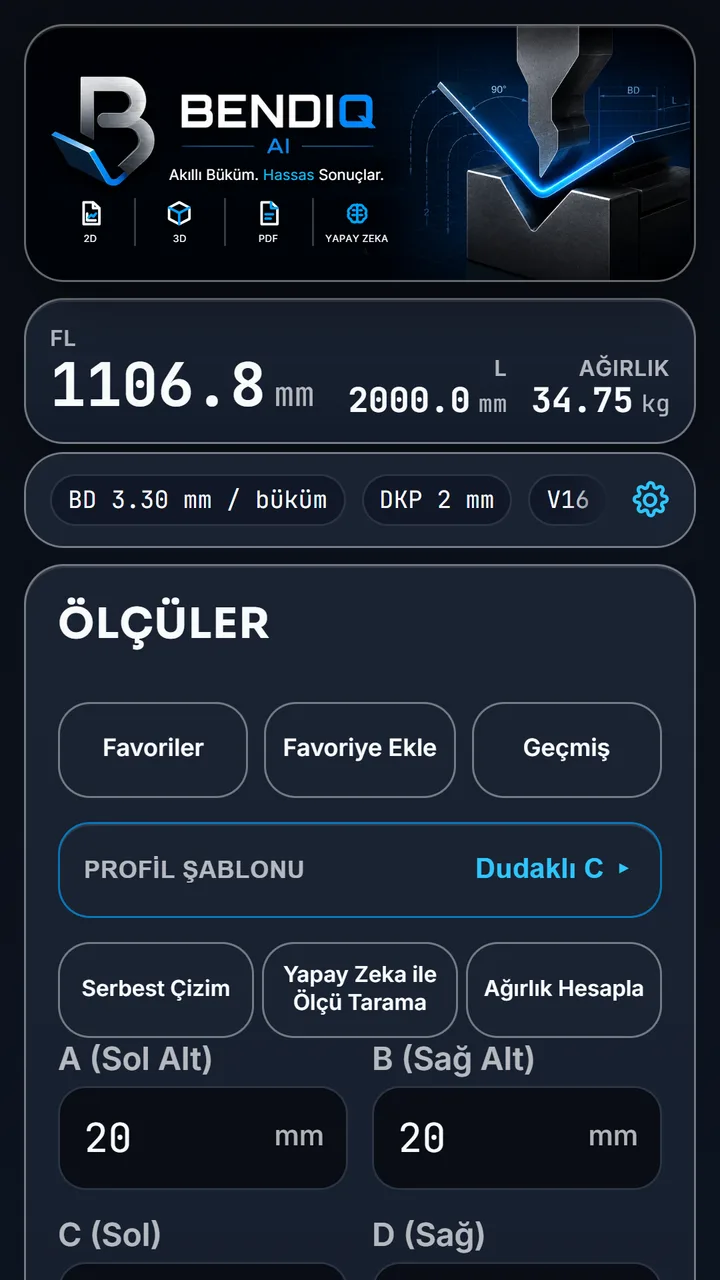
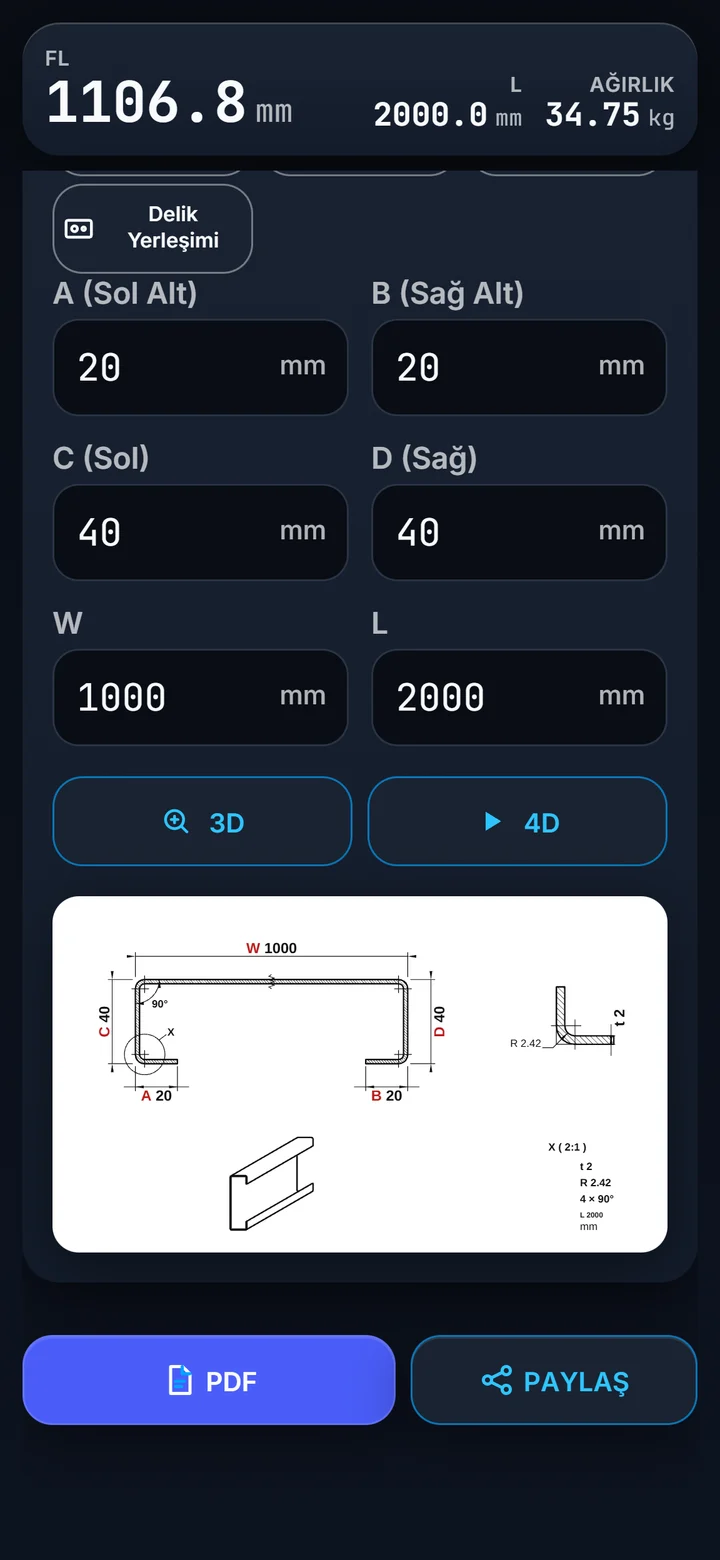
BENDIQ görselleri gerçek çıktıyla yenilendi
Hero'daki ekran ve proje kartındaki kapak, uygulamanın gerçek çıktısıyla
değişti: A4 yatay teknik çizim (kesit, ölçüler, detay X, izometrik).
Görsel oranları cihazın kendi oranına çekildi (720x1560 ve 1020x600) —
9:16'ya sıkıştırmak kareyi kırpıyordu. og-image küçültüldü.

diff --git a/src/styles/sections.css b/src/styles/sections.css
@@ -572,7 +572,9 @@
   display: block;
   width: 100%;
   height: auto;
-  aspect-ratio: 720 / 1280;
+  /* Gerçek cihazın oranı (384×832). 9:16 varsayımı kareyi kırpıyordu:
+     ekranın altındaki teknik çizim ve PDF düğmesi görünmüyordu. */
+  aspect-ratio: 720 / 1560;
   object-fit: cover;
   object-position: top center;
   border-radius: 18px;
@@ -1570,10 +1572,14 @@ a.contact-detail:hover {
     grid-template-columns: repeat(3, 1fr);
   }
 
-  /* Tek satır: iki satıra yayılan lead kart ızgarayı şişiriyordu
-     (bölüm 1.928 px'e çıkmıştı). */
+  /* Lead kart iki satır: kapak artık tam bir A4 çizim olduğu için kart
+     790 px ve tek satırda kalınca sağına 420 px boşluk düşüyordu.
+     İki satıra yayılınca o boşluğa iki kompakt kart giriyor ve ızgara
+     1.205 → 1.181 px'e iniyor. (Kapak 237 px'lik kesitken bunun tersi
+     geçerliydi: o zaman yayılma ızgarayı şişiriyordu.) */
   .projects__lead {
     grid-column: span 2;
+    grid-row: span 2;
   }
 }
 
@@ -1593,8 +1599,30 @@ a.contact-detail:hover {
    Sabit yukseklik verildiginde ciplerin alti kesiliyordu.
    Her genislikte gecerli: 16/10'luk varsayilan kutuda object-fit
    kesiti yanlardan kirpiyor, telefonda genisligin %55'i gorunuyordu. */
+/* Kapak = uygulamanın gerçek çıktısı (ölçülendirilmiş A4 teknik çizim),
+   kendi oranında akar — object-fit kırpması hiç devreye girmez.
+   Üstteki sabit boşluk durum çipi içindir: çip kapağın üstünde yüzer
+   (16 px + ~30 px) ve çizim kâğıdı beyaz olduğu için çipin kendi koyu
+   zemini beyazın üstünde okunmuyordu; koyu bant onu taşıyor.
+   Boşluk SABİT px: orana gömülen boşluk masaüstünde kocaman bir bant oluyor. */
 .project-card--featured .project-card__cover {
-  aspect-ratio: 1020 / 350;
+  aspect-ratio: auto;
+  height: auto;
+  display: block;
+  padding-top: 54px;
+  background: #090d14; /* çizimin oturduğu koyu zemin; token'lardan 2 birim koyu */
+}
+
+/* Çizim kapağın tamamını kaplamadığı için marka gradyanı ve ızgara
+   deseni üstteki boşlukta yabancı bir bant olarak görünürdü. */
+.project-card--featured .project-card__cover::before,
+.project-card--featured .project-card__cover::after {
+  display: none;
+}
+
+.project-card--featured .project-card__shot {
+  position: relative;
+  inset: auto;
   height: auto;
 }
 
@@ -1616,17 +1644,9 @@ a.contact-detail:hover {
   display: none;
 }
 
-/* Kesitin altı kart zeminine erisin: object-fit alttan kırptığı için
-   yarım kalan giriş alanları kırpık duruyordu. */
-.project-card__cover--shot::after {
-  content: '';
-  position: absolute;
-  inset: auto 0 0;
-  height: 18%;
-  z-index: 2;
-  background: linear-gradient(180deg, transparent, var(--surface));
-  pointer-events: none;
-}
+/* Kapak artık tam bir A4 çizim — yarım kalan bir giriş alanı yok.
+   Alttaki kaybolma gradyanı gizleyecek bir şey bulamayıp kâğıdın kendi
+   alt kenarını soldurduğu için kaldırıldı. */
 
 /* ============================================================
    SEKTÖREL TASLAKLAR — hizmetlerin devamı

diff --git a/src/components/Projects.jsx b/src/components/Projects.jsx
@@ -46,16 +46,16 @@ function ProjectCard({ project, viewLabel, labels, featured = false }) {
       </span>
 
       <div className={`project-card__cover${project.cover ? ' project-card__cover--shot' : ''}`}>
-        {/* Öne çıkan projede kapak, uygulamanın gerçek ekranından bir
-            kesit: ölçü satırı ve büküm parametreleri. Logo plakası
-            782×260'lık alanda boş duruyordu. */}
+        {/* Öne çıkan projede kapak, uygulamanın gerçek çıktısı: A4 yatay
+            teknik çizim (kesit + ölçüler + detay X + izometrik). Logo
+            plakası 782×260'lık alanda boş duruyordu. */}
         {project.cover && (
           <img
             className="project-card__shot"
             src={project.cover}
             alt=""
             width="1020"
-            height="350"
+            height="600"
             loading="lazy"
             decoding="async"
           />

diff --git a/src/components/HeroVisual.jsx b/src/components/HeroVisual.jsx
@@ -9,7 +9,8 @@ import Icon from './Icon.jsx'
  *
  * Görsel dekoratif DEĞİL: ürünün çalıştığının kanıtı olduğu için
  * gerçek alt metni var ve ekran okuyuculara açık.
- * Oran 9:16 sabit olduğu için CLS üretmez.
+ * Oran gerçek cihazın kendi oranı (384×832 CSS px → 720×1560) ve sabit
+ * olduğu için CLS üretmez. 9:16'ya sıkıştırmak kareyi kırpıyordu.
  *
  * Tamamı Play sayfasına giden tek bir bağlantı. Alt yazı zaten
  * "Google Play'de yayında" diyordu ama tıklanmıyordu; ziyaretçinin ilk
@@ -37,7 +38,7 @@ export default function HeroVisual() {
             src="/bendiq-teknik-cizim.webp"
             alt={t.hero.visualAlt}
             width="720"
-            height="1280"
+            height="1560"
             loading="eager"
             fetchpriority="high"
             decoding="async"
